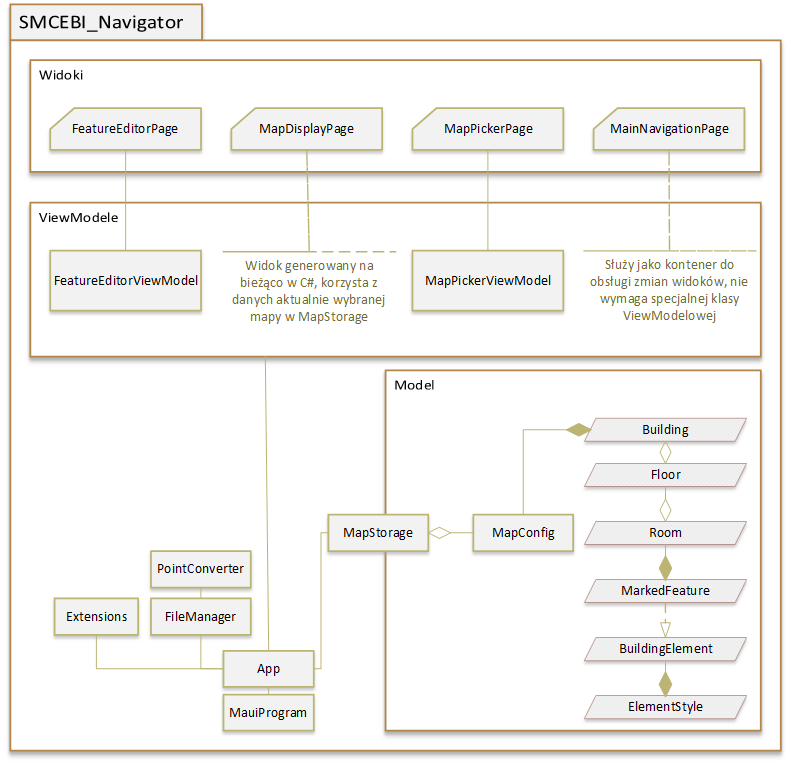
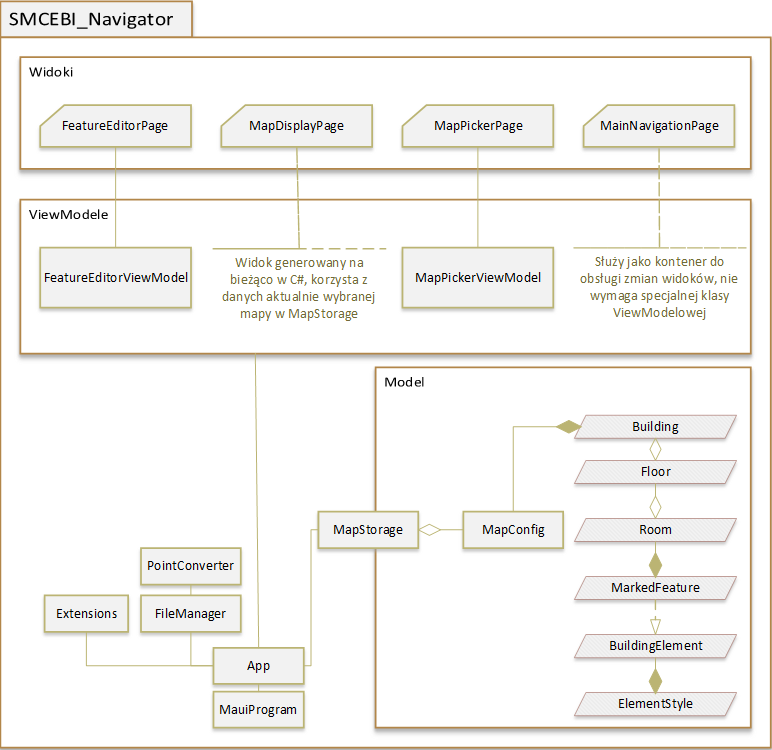
Inż: Zmiana kolejności podrozdziałów, dopasowanie rysunków, rozwój sekcji kontrola wersji

Changed region(s): [[0.0, 0.0, 1.0, 1.0]]

diff --git a/Praca_inzynierska/Rozdzialy/NarzedziaCICD/coToCICD.tex b/Praca_inzynierska/Rozdzialy/NarzedziaCICD/coToCICD.tex
@@ -50,9 +50,8 @@ Istnieje kilka zagadnień, które należy rozważyć podczas planowania integrac
     \item Ilość czasu potrzebnego do przygotowania konfiguracji
     \item Czy pipeline ma działać w chmurze, czy na własnym urządzeniu
 \end{enumerate}
-
-Zwykle przygotowanie konfiguracji pipeline'a jest skomplikowane oraz \\%
-czasochłonne, więc do tego zadania zatrudnia się specjalistów\todo{}. \\
+Przygotowanie konfiguracji pipeline'a może być skomplikowane oraz \\%
+czasochłonne, więc w większych zespołach do tego zadania zatrudnia się specjalistów. 
 Chociaż początkowo może wydawać się to zbędnym nakładem pracy, z upływem czasu zwraca się on z nawiązką.
 Jeżeli nasz projekt ma być rozwijany przez więcej osób, w większej perspektywie czasowej, 
 to oprócz jego standardowych zalet, zyskujemy również spokój współautorów, 
@@ -61,7 +60,8 @@ którzy nie muszą znać szczegółów procesu wydawczego i mogą skupić się n
 Spotkałem się z opiniami, że przywiązanie do jednego dostawcy narzędzia negatywnie wpływa na elastyczność 
 takiego pipeline'a - w przypadku potrzeby zmiany narzędzia CI/CD mogą pojawić się komplikacje, 
 przykładowo różnice w składni, limity przechowywania poufnych danych, sposób działania~\footnote[2]{
-    Niekompatybilność przekazywania zmiennych, konwencje nazewnicze, dostępność szablonów zadań
+    Niekompatybilność przekazywania zmiennych, konwencje nazewnicze, dostępność \\%
+    szablonów zadań
 } itp.
 Aby zabezpieczyć się przed takimi trudnościami, należy przeznaczyć dodatkowe nakłady pracy na stworzenie 
 modularnych skryptów, które będą łatwe w użyciu.
@@ -71,6 +71,4 @@ zabezpieczonych danych, więc o ile nie przechowujemy ich kopii samodzielnie, mo
 W zależności od naszych możliwości finansowych oraz zaopatrzeniowych, możemy wynająć maszynę wirtualną
 lub zainstalować odpowiednie oprogramowanie CI/CD na własnej maszynie. 
 Jeżeli wolimy nie martwić się o sprawy sprzętowe, wygodniejszym rozwiązaniem jest chmura,
-ale jeśli dysponujemy sprzętem, to prawdopodobnie skorzystanie z niego będzie tańszą opcją. 
-\todo[size=\scriptsize]{czy ja to muszę jakoś potwierdzać? czy to wystarczy?}
-
+ale jeśli dysponujemy sprzętem, to skorzystanie z niego może okazać się tańszą opcją. 

diff --git a/Praca_inzynierska/Rozdzialy/wstep.tex b/Praca_inzynierska/Rozdzialy/wstep.tex
@@ -1,16 +1,24 @@
 \section{Wstęp}
 
-Założeniem pracy inżynierskiej jest objaśnienie zagadnienia oraz zaprezentowanie implementacji zautomatyzowanego procesu wydawczego, 
-który będzie przygotowany na podstawie przykładowej aplikacji. 
-Aby podkreślić jego uniwersalność zdecydowałem się na skorzystanie z niżej opisanego frameworka .NET MAUI~\ref{mauiFrameworkSubsection}, 
-który pozwala na wydanie ekwiwalentnej aplikacji na różne platformy.
+Założeniem pracy inżynierskiej jest objaśnienie zagadnienia oraz zaprezentowanie 
+implementacji zautomatyzowanego procesu wydawczego, który będzie 
+przygotowany na podstawie przykładowej aplikacji. 
+Aby podkreślić jego uniwersalność zdecydowałem się na skorzystanie z niżej opisanego frameworka 
+.NET MAUI~\ref{mauiFrameworkSubsection}, który pozwala na wydanie ekwiwalentnej aplikacji na różne platformy.
 
-Najciekawsze źródła, których nie cytowałem, ale odwiedziłem i naprowadziły mnie na poprawne tory lub rozwijają temat, 
-umieściłem w rozdziale~\ref{dodatkoweZrodla}.
+W nowoczesnym biznesie i nauce istotne jest przyspieszanie, automatyzowanie 
+oraz idąca za tym redukcja kosztów tworzenia i utrzymywania \\oprogramowania.
+W dobie wszechobecnych komputerów oraz naszej zależności od wykonywanej przez 
+nie pracy, dostarczane usługi i dostęp do informacji to wartościowe dobra, 
+na których brak nie możemy sobie pozwolić.
 
-Motywacją do przygotowania tej pracy były moje doświadczenia i przekonania - 
+Motywacją do przygotowania tej pracy były moje doświadczenia oraz przekonania - 
 dbałość o jakość, stabilność i przewidywalność wyników to cechy środowiska pracy, 
 które powinny zajmować najwyższe miejsca na liście zawodowych priorytetów.
+
 Wierzę, że skorzystanie z technik i narzędzi zaprezentowanych w tej pracy 
 pozwoli na rozwój każdej z tych gałęzi.
+
+Najciekawsze źródła, których nie cytowałem, ale naprowadziły mnie na poprawne tory lub rozwijają temat, 
+umieściłem w rozdziale~\ref{dodatkoweZrodla}.
 

diff --git a/Praca_inzynierska/Rozdzialy/ObjesnienieNarzedzi/mvvm.tex b/Praca_inzynierska/Rozdzialy/ObjesnienieNarzedzi/mvvm.tex
@@ -4,21 +4,20 @@ Polega na wprowadzeniu separacji pomiędzy modelem danych i sposobem ich obróbk
 Jego główną zaletą jest możliwość oddzielenia ogólnych założeń programu od szczegółów integracji z platformą 
 - w projekcie~\cite{Halaczkiewicz_Navigator_GitHub} jest to wyraźnie zarysowane dzięki przyjętej 
 konwencji nazewniczej plików (postfix -Model, -ViewModel lub -View).
-Na rysunku~\ref{fig:MVVM_diagram} możemy zaobserwować zależność komunikacji klas stworzonych z wykorzystaniem właśnie tego wzorca.
-
-\begin{figure}[!htp]
-    \centering
-    \begin{tikzpicture}[
-        minimum height=1cm,
-        block/.style={rectangle, draw=black!60, fill=green!30, thick, rounded corners=2mm}
-        ]
-            \node[block] (Model) {Model};
-            \node[block] (ViewModel) [right=of Model] {ViewModel};
-            \node[block] (View) [right=of ViewModel] {View};
+% Na rysunku~\ref{fig:MVVM_diagram} możemy zaobserwować zależność komunikacji klas stworzonych z wykorzystaniem właśnie tego wzorca.
+% \begin{figure}[!htp]
+%     \centering
+%     \begin{tikzpicture}[
+%         minimum height=1cm,
+%         block/.style={rectangle, draw=black!60, fill=green!30, thick, rounded corners=2mm}
+%         ]
+%             \node[block] (Model) {Model};
+%             \node[block] (ViewModel) [right=of Model] {ViewModel};
+%             \node[block] (View) [right=of ViewModel] {View};
             
-            \draw[->] (Model.east) -- node[anchor=east]{} (ViewModel.west);
-            \draw[->] (ViewModel.east) -- node[anchor=east]{} (View.west);
-    \end{tikzpicture}
-    \caption{Zależności między klasami w MVVM~\cite{mvvm}}
-    \label{fig:MVVM_diagram}
-\end{figure}
+%             \draw[->] (Model.east) -- node[anchor=east]{} (ViewModel.west);
+%             \draw[->] (ViewModel.east) -- node[anchor=east]{} (View.west);
+%     \end{tikzpicture}
+%     \caption{Zależności między klasami w MVVM~\cite{mvvm}}
+%     \label{fig:MVVM_diagram}
+% \end{figure}

diff --git a/Praca_inzynierska/Rozdzialy/Aplikacja/architektura.tex b/Praca_inzynierska/Rozdzialy/Aplikacja/architektura.tex
@@ -25,21 +25,23 @@ Zamysł polega na uniemożliwieniu bezpośrednich interakcji danych
 modelowych z widokami, a poprzez ViewModele. Takie podejście umożliwia bezpieczną zmianę 
 widoków, bez zastanawiania się czy wpłyną one na zachowanie ViewModelu lub co gorsza wprost na dane.
 Na rysunku  widzimy skrótowy podział rozwiązania na klasy, pogrupowany 
-zgodnie z ich przeznaczeniem oraz najważniejszą relacją z klasami sąsiadującymi.\todo{Opisać dokładniej połączenia między klasami?}
+zgodnie z ich przeznaczeniem oraz najważniejszą relacją z klasami sąsiadującymi.
+\subsubsection{Podział na projekty}
+\begin{figure}[!h]
+    \centering
+    \frame{\includegraphics[width=0.7\textwidth]{projectDiagram.png}}
+    \caption{Podział rozwiązania na projekty}
+    \label{img:projectDiagram}
+\end{figure}
+
 \begin{figure}[ht]
     \centering
-    \includegraphics[width=0.95\textwidth]{shortClassDiagram.png}
+    \includegraphics[width=0.99\textwidth]{shortClassDiagram.png}
     \caption{Diagram najważniejszych klas w projekcie SMCEBI Navigator}
     \label{img:shortClassDiagram}
 \end{figure}
 \newpage
-\subsubsection{Podział na projekty}
-\begin{figure}[!h]
-    \centering
-    \includegraphics[width=0.4\textwidth]{projectDiagram.png}
-    \caption{Podział rozwiązania na projekty}
-    \label{img:projectDiagram}
-\end{figure}
+
 
 Zgodnie z rysunkiem \ref{img:projectDiagram}, oprócz bezpośredniego kodu aplikacji, 
 zdecydowałem się na wyodrębnienie 3 projektów:

diff --git a/Praca_inzynierska/Rozdzialy/Aplikacja/przedstawienieAplikacji.tex b/Praca_inzynierska/Rozdzialy/Aplikacja/przedstawienieAplikacji.tex
@@ -10,7 +10,7 @@ która pozwala na wyświetlanie mapy w postaci strony HTML za pomocą JavaScript
 Aplikacja jest podzielona na 3 główne sekcje: 
 \begin{itemize}
     \item Wybór mapy - \verb|MapPickerPage|~\ref{img:MapPickerPage}
-    \item Kreator pokoju - \verb|FeatureEditorPage|~\ref{img:FeatureEditorPage}
+    \item Kreator elementów - \verb|FeatureEditorPage|~\ref{img:FeatureEditorPage}
     \item Wyświetlanie mapy - \verb|MapDisplayPage|~\ref{img:MapDisplayPage}
 \end{itemize}
 
@@ -23,7 +23,7 @@ Aplikacja jest podzielona na 3 główne sekcje:
 
 \begin{figure}[ht]
     \centering
-    \includegraphics[width=\textwidth]{FeatureEditorPage_light.png}
+    \frame{\includegraphics[width=\textwidth]{FeatureEditorPage_light.png}}
     \caption{Ekran kreatora pokoju w aplikacji "Navigator"}
     \label{img:FeatureEditorPage}
 \end{figure}
@@ -31,7 +31,7 @@ Aplikacja jest podzielona na 3 główne sekcje:
 
 \begin{figure}[H]
     \centering
-    \includegraphics[width=0.55\textwidth]{MapDisplayPage_light.png}
+    \frame{\includegraphics[width=0.55\textwidth]{MapDisplayPage_light.png}}
     \caption{Ekran wyświetlający mapę w aplikacji "Navigator"}
     \label{img:MapDisplayPage}
 \end{figure}

diff --git a/Praca_inzynierska/Rozdzialy/NarzedziaCICD/wprowadzenie.tex b/Praca_inzynierska/Rozdzialy/NarzedziaCICD/wprowadzenie.tex
@@ -32,5 +32,4 @@ a następnie poinformować o tym użytkownika (przykładowo wyświetlić powiado
 \end{figure}
 
 Wraz ze wzrostem częstotliwości wprowadzania zmian, ilości urządzeń oraz ograniczeniem dostępu do nich,
-potrzeba automatyzacji tego procesu staje się coraz bardziej realna. 
-W tym celu wykorzystuje się szeroki wachlarz narzędzi CI/CD. \todo{}
+potrzeba automatyzacji tego procesu staje się coraz bardziej realna.

diff --git a/Praca_inzynierska/Rozdzialy/NarzedziaCICD/NarzedziaCICD.tex b/Praca_inzynierska/Rozdzialy/NarzedziaCICD/NarzedziaCICD.tex
@@ -4,11 +4,9 @@
 
 \input{Rozdzialy/NarzedziaCICD/coToCICD}
 
-\input{Rozdzialy/NarzedziaCICD/kontrolaWersji}
-
-\newpage
-
 \input{Rozdzialy/NarzedziaCICD/dostepneRozwiazania}
+
+\input{Rozdzialy/NarzedziaCICD/kontrolaWersji}
 
 \input{Rozdzialy/NarzedziaCICD/implementacja}
 

diff --git a/Praca_inzynierska/main.tex b/Praca_inzynierska/main.tex
@@ -36,7 +36,7 @@
 
     \include{Rozdzialy/Aplikacja/aplikacjaNavigator}
     
-    \include{Rozdzialy/NarzedziaCICD/zastosowanieAzure}
+    \include{Rozdzialy/NarzedziaCICD/NarzedziaCICD}
 
     \include{podsumowanie}
 
